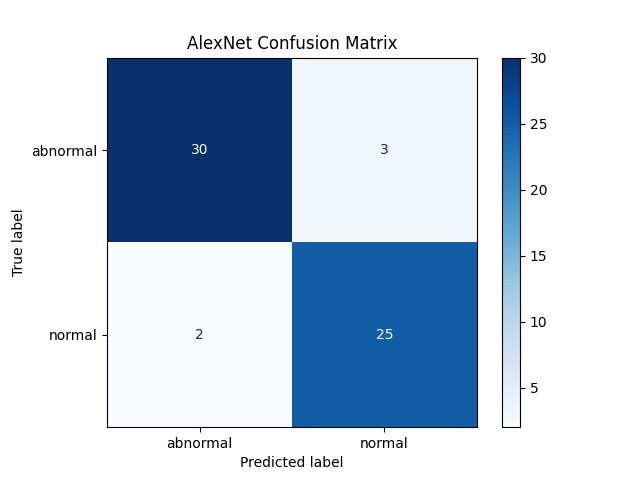
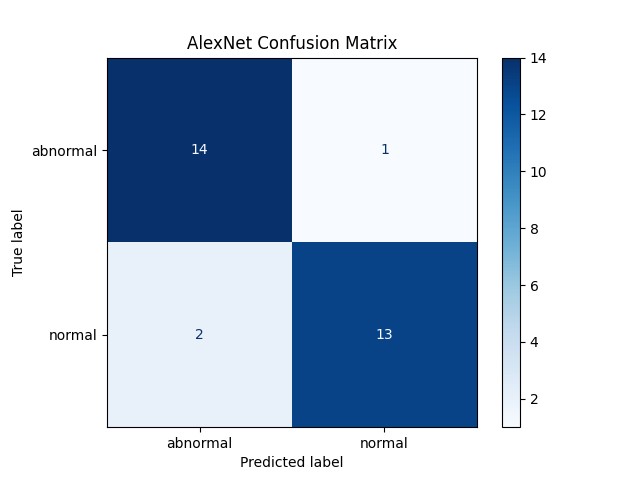
alexnet

diff --git a/src/train.py b/src/train.py
@@ -80,11 +80,11 @@ def score(model):
 DATA_ROOT = 'src/data/harvard/'
 
 BATCH_SIZE = 64
-EPOCHS = 25
+EPOCHS = 15
 LR = 1e-3
 
 dataset = ImageFolder(root=DATA_ROOT, transform=ToTensor())
-train_subset, test_subset = random_split(dataset, [0.6, 0.4])
+train_subset, test_subset = random_split(dataset, [0.80, 0.2])
 
 transforms = [
     RandomRotation(degrees=(-15, 15)),
@@ -93,6 +93,7 @@ transforms = [
 ]
 
 train_dataset = data_augmentation(train_subset, transforms)
+
 test_dataset = CustomDataset(test_subset)
 
 train_loader = DataLoader(train_dataset,

diff --git a/src/alexnet_pretrained.py b/src/alexnet_pretrained.py
@@ -34,7 +34,7 @@ class AlexNet(Module):
     def foward(self, x):
         return self.model(x)
 
-    def fit(self, train_loader, eval_loader=None, epochs=10, lr=1e-3, file_path='src/models/best_model.pt', debug=False):
+    def fit(self, train_loader, eval_loader=None, epochs=10, lr=1e-3, file_path='src/weights/best_model.pt', debug=False):
         optimizer = SGD(self.parameters(), lr=lr)
         criterion = BCEWithLogitsLoss()
 

diff --git a/src/load.py b/src/load.py
@@ -4,7 +4,7 @@ from torchvision.datasets import ImageFolder
 from torchvision.transforms import ToTensor
 
 model = AlexNet()
-model.load_state_dict(load('src/models/best_model.pt'))
+model.load_state_dict(load('src/weights/best_model.pt'))
 
 dataset = ImageFolder(root='src/data/', transform=ToTensor())
 
